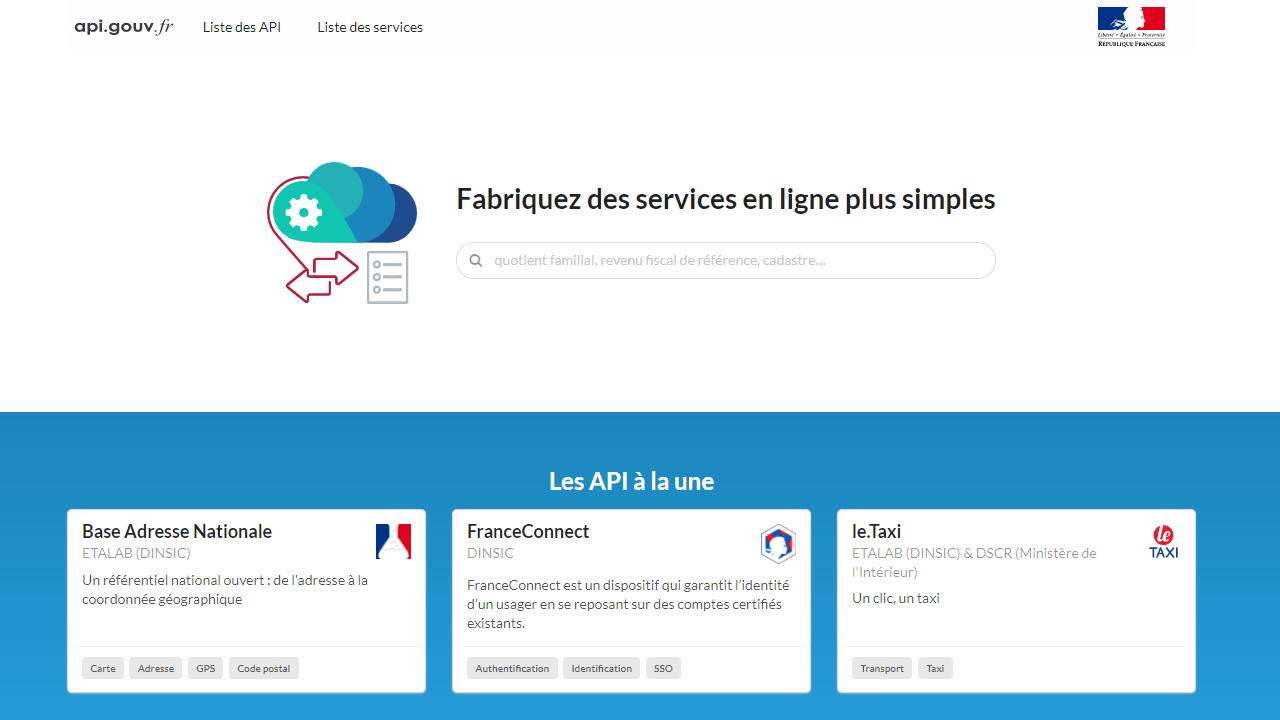
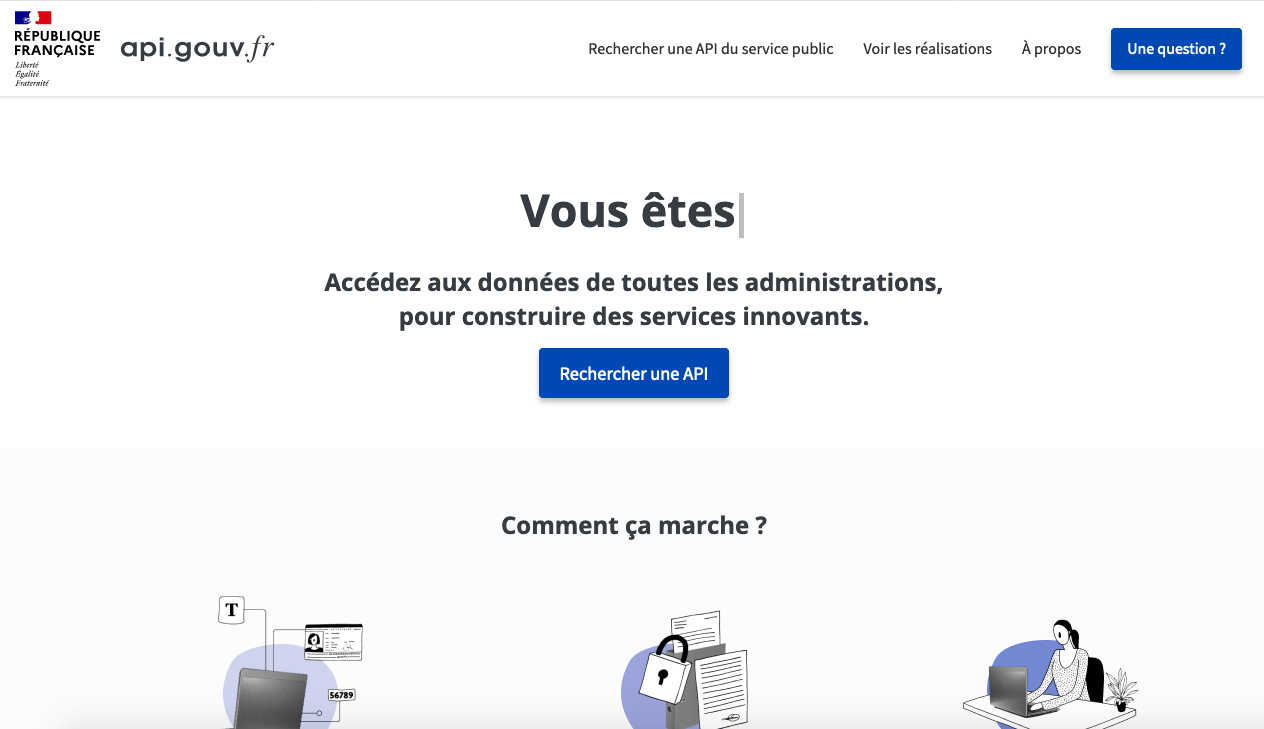
🤘 pimp my api.gouv.fr 😎

diff --git a/content/_startups/api.gouv.fr.md b/content/_startups/api.gouv.fr.md
@@ -1,6 +1,6 @@
 ---
 title: api.gouv.fr
-mission: Faciliter l'accès aux API publiques pour faire émerger de nouveaux services
+mission: Le site qui référence toutes les APIs du service public
 owner: DINUM
 incubator: apigouv
 status: alumni
@@ -11,9 +11,32 @@ repository: https://github.com/betagouv/api.gouv.fr
 stats: false
 contact: contact@api.gouv.fr
 redirect_from:
-  - /startups/apigouv
+    - /startups/apigouv
 ---
 
-api.gouv.fr référence les API de l'**État plateforme**, c'est à dire les services électroniques réutilisables proposés par les administrations, centrales, territoriales et hospitalière ainsi que leurs opérateurs.
+## Le problème :
 
-Ces services sont exploitables par des entités publiques, mais aussi en grande partie par le secteur privé : géocodage d'adresse, accès sécurisé à des pièces justificatives pour des personnes physiques ou morales, contextualisation du droit selon des données de l'usager, appartenance à des zonages administratifs, recherche de transports publics… sont autant de ressources exploitables par des éditeurs de logiciels.
+Au sein le service public, la donnée est une ressource dispersée, hétérogène et difficile d'accès.
+Les organisations qui construisent des services numériques pour les citoyens ont besoin de cette donnée et doivent faire face à :
+
+-   la multiplicité des sources de données et des interlocuteurs
+-   la difficulté d’identifier la source de donnée adaptée à leur service
+-   la difficulté d’obtenir l'accès à la donnée
+-   la difficulté de construire un service fiable avec la donnée
+
+## La solution :
+
+api.gouv est un site mais avant tout une équipe qui :
+
+-   recense les api existantes
+-   conseille et accompagne les constructeurs de services numériques
+-   facilite et numérise les procédures d'habilitation pour accèder à la donnée
+-   rassure et établit une relation de confiance entre les constructeurs de services informatiques et l'administration responsable de la donnée
+
+Api.gouv.fr est une startup déja incubée, riche d'une expérience de plusieurs années et des dizaines de services déja accompagnés.
+
+Cette annéee, l'accent est mis sur :
+
+-   devenir un reflexe pour tous les constructeurs de services numériques
+-   être découvrable sur Internet et clarifier le message du site
+-   se faire connaître activement des collectivités, des ministères et des administrations
